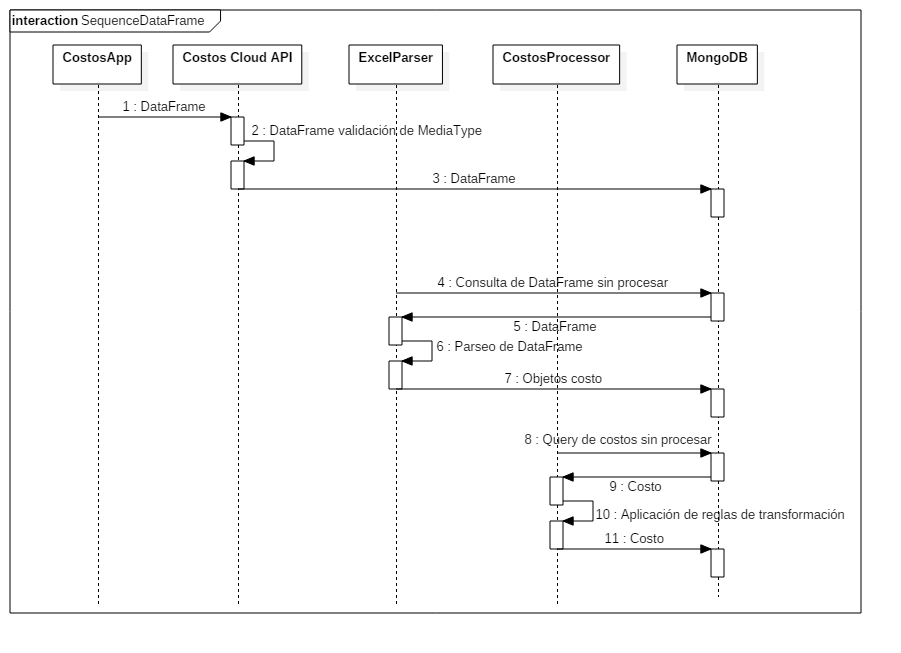
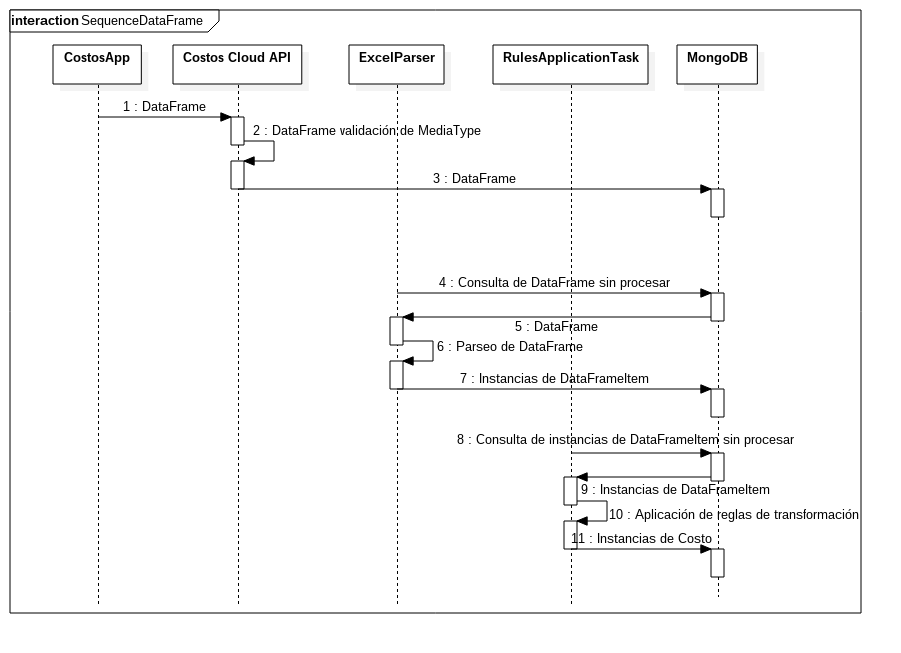
Update README

diff --git a/rules-application-task/spring-cloud-starter-task-rules-batch/src/main/java/org/springframework/cloud/task/app/rules/batch/DfItemProcessor.java b/rules-application-task/spring-cloud-starter-task-rules-batch/src/main/java/org/springframework/cloud/task/app/rules/batch/DfItemProcessor.java
@@ -89,7 +89,8 @@ public class DfItemProcessor implements ItemProcessor<DataFrameItem, Costo>, Ste
             logger.debug("No rules to apply for data frame type {}", dataFrameType);
         }
         dfItem.setProcessed(true);
-        dfItemRepo.save(dfItem);
+        //Descomente la siguiente línea si desea persistir las modificaciones que el DataFrameItem sufre durante la aplicación de las reglas.        
+        //dfItemRepo.save(dfItem);
         Costo costo = context.getCosto();
         costo.setDataFrameItem(dfItem);
         return costo;

diff --git a/README.md b/README.md
@@ -1,17 +1,15 @@
 # Costos Cloud
 
-## Diagrama de contexto
-Como se muestra en el diagrama de contexto, éste es un proyecto que interactúa con la aplicación CostosApp y es el macro-componente responsable de procesar _data frames_ a objetos de dominio y aplicarles reglas de transformación.
-
-![Diagrama de contexto](img/contexto.png)
+## Contexto
+Éste es un proyecto que interactúa con la aplicación CostosApp y es el macro-componente responsable de procesar _data frames_ a objetos de dominio y aplicarles reglas de transformación.
 
 Este componente se compone de tres sub-componentes:
 - **Costos Cloud API**: es la interfaz que se proporciona a la aplicación de CostosApp para interactuar con **Costos Cloud** (este proyecto): 
     - Carga de _Data Frames_ (archivos Excel)
-    - Creación de reglas de transformación
-    - Consulta de costos (resultado)
-- **Excel Parser**: es el encargado de _parsear_ los _Data Frames_ cargados y persistirlos como objetos 'Costo'.
-- **Costo Processor**: se encarga de aplicar reglas de transformación, previamente cargados en la BD, en el contexto de 'Costo'. 
+    - Creación de _DataFrameType_ y sus reglas de transformación
+    - Consulta de costos
+- **Excel Parser**: es el encargado de _parsear_ los _DataFrame_ cargados y transformar cada fila a objectos _DataFrameItem_.
+- **Rules Applier**: se encarga de aplicar reglas de transformación.
 
 ## Diagrama de secuencia
 A continuación se muestra el diagrama de secuencia para un DataFrame de 'Costo'.
@@ -20,30 +18,26 @@ A continuación se muestra el diagrama de secuencia para un DataFrame de 'Costo'
 
 ## Descripción de los componentes
 En este repositorio se encuentran los siguientes proyectos:  
-- **Rules**: es una librería para la definición de reglas definidas con SpEL
-- **Costos Commons**: son clases comunes a usar en Costos API, Excel Parser Task y Costos Processor; en general son clases POJO y Repository.
-- **Costos API**: es la interfaz REST que utilizará la aplicación de Costos para interactuar con la aplicación _Costos Cloud_. Proporciona _endpoints_ para administrar las reglas, subir archivos de DataFrame y consultar los costos procesados.
-- **Excel Parser Task**: es una aplicación de Spring Batch que se ejecuta como una tarea programada en el servidor de Spring Cloud Data Flow.
-- **Costos Processor**: es una aplicación _Stream_ de tipo _Processor_ que se encarga de aplicar las reglas definidas para un costo.
-
-La **Excel Parser Task** consulta cada minuto el archivo de Excel más antiguo sin procesar, lo _parsea_ e inserta los costos en la colección `costos` en la BD de Mongo.
-
-Una vez insertados, el **costos-stream** se encargar de procesarlos y persistirlos.
+- **Kukulkán Rules**: es una librería para la definición y aplicación de reglas escritas en SpEL
+- **Costos Commons**: son clases comunes a usar en Costos API, Excel Parser Task y Rules Application Task: clases de dominio, repositorios y servicios.
+- **Costos API**: es la interfaz REST que utilizará la aplicación de Costos para interactuar con la aplicación _Costos Cloud_. Proporciona _endpoints_ para administrar los _DataFrameType_, subir _DataFrame_ y consultar los costos procesados.
+- **Excel Parser Task**: es una aplicación de Spring Batch que se encarga de parsear cada una de las filas de los _DataFrame_ y persistirlos como _DataFrameItem_.
+- **Rules Application Task**: es una aplicación de Spring Batch que se encarga aplicar reglas a cada uno de los _DataFrameItem_ según la fuente de la que provienen.
 
 ### Costos API
 **Endpoints**:  
 - **Carga de DataFrame**: `api/dataFrame`  
-- **Carga de Regla**: `api/rules`  
+- **Administración de DataFrameType (y sus reglas)**: `api/dataFrameType`
 - **Consulta de costos**: `api/costos`  
 
 ### Excel Parser
-La manera en que el componente _Excel Parser_ decide cuál parser usar para transformar una fila de Workbook de Excel a una objeto 'Costo' es comparando la fila de _headers_ del _Data Frame_ contra los _ExcelRowParser_ registrados.
+La manera en que el _Excel Parser_ decide cuál parser usar para transformar una fila de Workbook de Excel a un objeto _DataFrameItem_ es comparando la fila de _headers_ del _Data Frame_ contra el esquema soportado de cada uno de los parsers (_ExcelRowParser_) registrados.
 
-Para añadir un nuevo _parser_ para una nueva fuente de datos, implemente la interfaz `ExcelRowParser`.
+Para añadir un nuevo _parser_ para una nueva fuente de datos, implemente la interfaz `ExcelRowParser`. Por ejemplo, 
 
 ```java
 @Component
-public class AnotherParser implements ExcelRowParser<Costo> {
+public class AnotherParser implements ExcelRowParser<DataFrameItem> {
 
     private final Logger logger = LoggerFactory.getLogger(AnotherParser.class);
 
@@ -72,10 +66,10 @@ public class AnotherParser implements ExcelRowParser<Costo> {
     }
 
     @Override
-    public Costo parse(Row row) {
+    public DataFrameItem parse(Row row) {
         logger.debug("Parsing row...");
         Map<String, String> map = parser.map(row);
-        return mapper.convertValue(map, Costo.class);
+        return mapper.convertValue(map, AnotherDataFrameItem.class); //AnotherDataFrameItem extiende de la clase DataFrameItem
     }
 
     @Override
@@ -87,27 +81,41 @@ public class AnotherParser implements ExcelRowParser<Costo> {
 ```
 
 Note la utilización de un `ExcelRowMapParser` que ayuda a convertir una fila `org.apache.poi.ss.usermodel.Row.Row` a un Mapa de clave-valor **String, String**: `Map<String, String> map = parser.map(row);`  
-Luego, se utiliza el ObjectMapper de Jackson para convertir el Mapa a un objeto: `mapper.convertValue(map, Costo.class);`
+Luego, se utiliza el ObjectMapper de Jackson para convertir el Mapa a un objeto: `mapper.convertValue(map, AnotherDataFrameItem.class);`
 
 ### Costo Processor
 
-El **Costos Processor** carga al iniciar las reglas de transformación guardadas previamente en la BD y las aplica para cada una de los costos. Éstas reglas están expresadas con **Spring Expression Language** (SpEL).
+La **Rules Application Task** se encarga de aplicar las reglas de transformación según el tipo de _DataFrameItem_ que se está procesando. Estas reglas son previamente asociadas a un _DataFrameType_ y se encuentran escritas en **Spring Expression Language** (SpEL).
 
 ```java
-@ServiceActivator(inputChannel = Processor.INPUT, outputChannel = Processor.OUTPUT)
-    public CostoObjectId process(CostoObjectId costo) throws JsonProcessingException {
-        logger.info("Processing costo: {}", costo);
-        rulesApplier.apply(new StandardEvaluationContext(costo));
-        costo.setProcessed(true);
+//...
+public Costo process(DataFrameItem dfItem) throws Exception {
+        logger.info("Processing dfItem: {}", dfItem);
+        CostoContext context = buildContext(dfItem);
+        String dataFrameType = dfItem.getDataFrame().getDataFrameType().getName();
+        Optional<DataFrameType> maybeDfType = dfTypeRepo.findOneByName(dataFrameType);
+        if (maybeDfType.isPresent()) {
+            RulesApplier rulesApplier = new DefaultRulesApplier(mapToRulesList(maybeDfType.get().getRules()),
+                    new SpelExpressionParser());
+            rulesApplier.apply(new StandardEvaluationContext(context));
+        } else {
+            logger.debug("No rules to apply for data frame type {}", dataFrameType);
+        }
+        dfItem.setProcessed(true);
+        //Descomente la siguiente línea si desea persistir las modificaciones que el DataFrameItem sufre durante la aplicación de las reglas.
+        //dfItemRepo.save(dfItem);
+        Costo costo = context.getCosto();
+        costo.setDataFrameItem(dfItem);
         return costo;
     }
+//...
 ```
 
 ## Prerequisitos
 
 - Maven
 - Docker y Docker Compose
-- Insomnia: Cliente REST (opcional)
+- Robo3T (Opcional para visualizar los registros en la MongoDB)
 
 ### Building
 Para compilar y generar los archivos `.jar` ejecute el script para empaquetar: `./package.sh`
@@ -120,7 +128,6 @@ Se exponen hacia la máquina host los siguientes servicios:
 - MongoDB en puerto 27017
 - Costos API en puerto 8080
 - Dataflow Server en puerto 9393 (http://localhost:9393/dashboard para ver la Interfaz Gráfica)
-- Robo3T (Opcional para visualizar los registros en la MongoDB)
 
 ## Uso
 
@@ -129,52 +136,49 @@ Para copiar la **Excel Parser Task** al Dataflow Server ejecute en la carpeta ra
     
     docker cp excel-parser-task/apps/parser-batch-task/target/parser-batch-task-2.0.0.RELEASE.jar dataflow-server:/home
 
-Para copiar el **Costos Processor** al Dataflow Server ejecute en la carpeta raíz del proyecto:  
+Para copiar el **Rules Application Task** al Dataflow Server ejecute en la carpeta raíz del proyecto:  
     
-    docker cp costos-processor/target/costos-processor-0.0.1-SNAPSHOT.jar dataflow-server:/home
+    docker cp rules-application-task/apps/rules-batch-task/target/rules-batch-task-2.0.0.RELEASE.jar
+    dataflow-server:/home
 
 ### Creando los streams
-Se utilizan dos streams para este proyecto:
 - **trigger-excel-parser-task**: dispara la **Excel Parser Task** cada cierto tiempo
-- **costos-stream**: obtiene los costos marcados como `processed = false`, los procesa (aplica reglas de transformación guardadas en la BD) y los persiste marcados como `processed = true`
 
 Para los siguientes pasos utilice el **Spring Cloud Data Flow Shell**.
-Ejecute: `java -jar spring-cloud-dataflow-shell-1.6.1.RELEASE.jar` en la carpeta raíz.
+Ejecute: `java -jar spring-cloud-dataflow-shell-1.7.3.RELEASE.jar` en la carpeta raíz.
 
 #### Creando el stream trigger-excel-parser-task
 
     stream create --name trigger-excel-parser-task --definition "triggertask --uri='file://home/parser-batch-task-2.0.0.RELEASE.jar' --cron='0 * * ? * *' --application-name=parse-costos-excel --environment-properties='spring.data.mongodb.host=mongo,spring.data.mongodb.port=27017,spring.data.mongodb.database=costos' | task-launcher" --deploy
 
+#### Creando el stream trigger-excel-parser-task
 
-#### Creando el stream costos-stream
-Registrar el jar previamente copiado al Dataflow Server como una aplicación Processor. 
-
-    app register --name costos --type processor --uri 'file://home/costos-processor-0.0.1-SNAPSHOT.jar'
-
-Crear el stream para el procesamiento de los costos:
-
-    stream create --name costos-stream --definition "source: mongodb --query="{'processed': false}" --database=costos --port=27017 --host=mongo --collection=costos | costos --spring.data.mongodb.database=costos --spring.data.mongodb.port=27017 --spring.data.mongodb.host=mongo | sink: mongodb --database=costos --port=27017 --host=mongo --collection=costos" --deploy
+    stream create --name trigger-rules-application-task --definition "triggertask --uri='file://home/rules-batch-task-2.0.0.RELEASE.jar' --cron='0 * * ? * *' --application-name=rules-application --environment-properties='spring.data.mongodb.host=mongo,spring.data.mongodb.port=27017,spring.data.mongodb.database=costos' | task-launcher" --deploy
 
 ### Insertando reglas
-Insertar reglas que el **Costo Processor** aplica en cada costo.
+Insertar reglas que el **Rules Application Task** aplica en cada costo.
 
+Ejemplo:  
 ```bash
-curl -X POST --header 'Content-Type: application/json' --header 'Accept: application/json' --header 'Authorization: Bearer TOKEN_DE_AUTORIZACION' -d '{ \ 
-     "name": "Asignacion de area", \ 
-     "order": 99, \ 
-     "condition": "area == 40", \ 
-     "actions": [ \ 
+curl -X POST --header 'Content-Type: application/json' --header 'Accept: */*' --header 'Authorization: Bearer TOKEN_DE_AUTORIZACION' -d '{ \ 
+   "name": "string", \ 
+   "rules": [ \ 
+     { \ 
+       "actions": [ \ 
          { \ 
-         "actionExpression": "servicio = %27Servicio administrativos DADT Direccion%27", \ 
-         "order": 99 \ 
+           "actionExpression": "costo.monto = item.monto", \ 
+           "order": 0 \ 
          } \ 
-     ] \ 
-     }' 'http://localhost:8081/api/rules'
+       ], \ 
+       "condition": "true", \ 
+       "name": "Regla de transformación 1", \ 
+       "order": 0 \ 
+     } \ 
+   ] \ 
+ }' 'http://localhost:8081/api/dataFrameType'
 ```
 
-Como respuesta debe obtener un código **201 (Created)**
-
-### Probando los streams
+### Probando un flujo
 Usando **curl** para subir un Data Frame (Archivos Excel) mediante la **Costos API**:
 
 ```bash
@@ -184,11 +188,9 @@ curl -X POST --header 'Content-Type: application/json' --header 'Accept: applica
  }' 'http://localhost:8081/api/dataFrame'
 ```
 
-Como respuesta debe obtener un código **201 (Created)**
+La **Excel Parser Task** consulta cada minuto el archivo de Excel más antiguo sin procesar, lo _parsea_ e inserta los _DataFrameItem_ en la colección `dataFrameItems` en la BD de Mongo.
 
-La **Excel Parser Task** consulta cada minuto el archivo de Excel más antiguo sin procesar, lo _parsea_ e inserta los costos en la colección `costos` en la BD de Mongo.
-
-Una vez insertados, el **costos-stream** se encargar de procesarlos y persistirlos.
+La **Rules Application Task** consulta cada minuto los _DataFrameItem_ sin procesar y aplica reglas de transformación sobre cada instancia según su _DataFrameType_ de origen.
 
 ## FAQ
 
